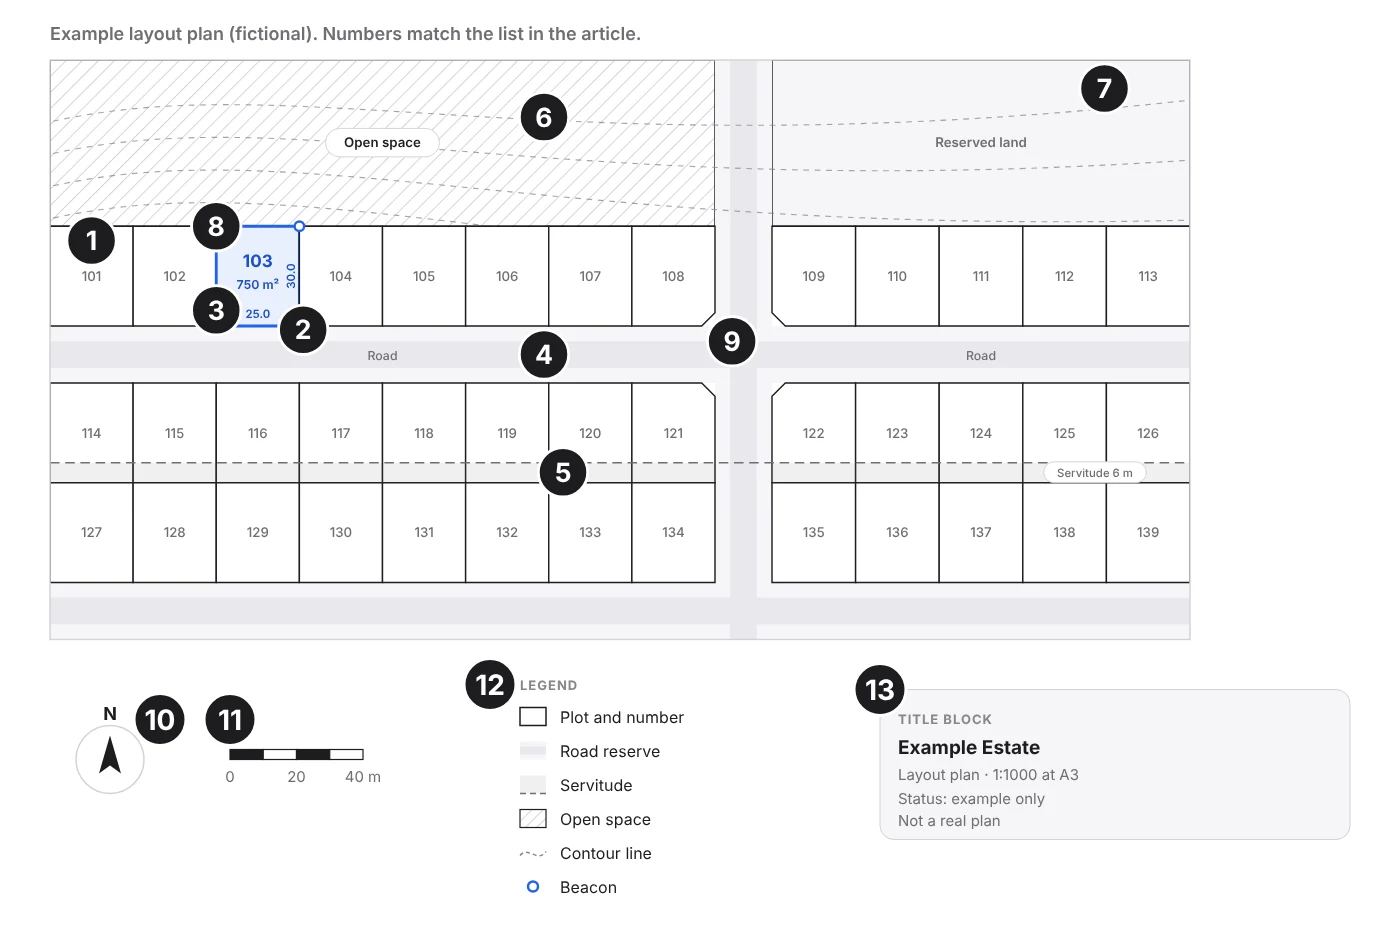
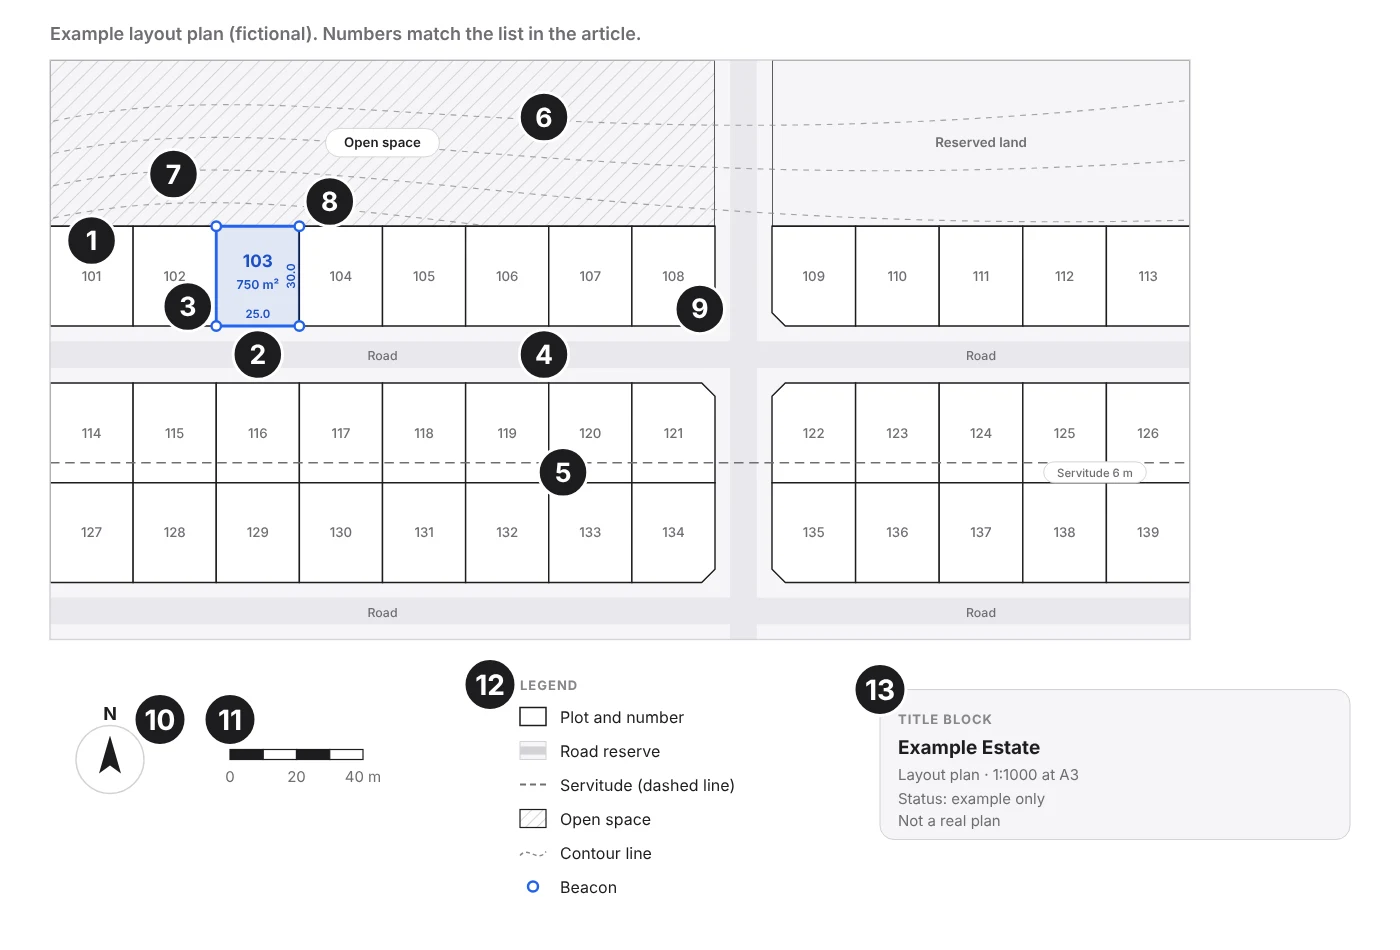
fix(blog): layout plan post review fixes
- Drop "site plan"/"general plan" as synonyms; explain the surveyed plan
  and that plot numbers can change between the two.
- Phone version of the parts diagram (picture element), linked to full size.
- Soften and source road reserve, splay and building-line wording; cite a
  contour line definition.
- Diagram: markers beside visible beacons and on plot 108's splay, splays
  on plots 134/135, bottom road labelled, distinct legend swatches.
- Right of way: in writing and, where possible, registered.

Claude-Session: https://claude.ai/code/session_01WkeDyezYymHaYNFAf7uwrx

diff --git a/src/content/blog/how-to-read-a-layout-plan-before-you-buy-a-plot.md b/src/content/blog/how-to-read-a-layout-plan-before-you-buy-a-plot.md
@@ -12,7 +12,9 @@ To read a layout plan, start with the title block and the north arrow, then find
 
 ## What is a layout plan?
 
-A layout plan (also called a site plan, subdivision plan or general plan) is the drawing that divides a piece of land into plots, roads and other spaces. A land surveyor or town planner usually prepares it, and a local authority usually has to approve it before plots can be sold or registered. The exact steps differ from country to country.
+A layout plan is the drawing that divides a piece of land into plots, roads and other spaces. Similar drawings are called a subdivision plan or plat. A land surveyor or town planner usually prepares it, and a local authority usually has to approve it. The exact steps differ from country to country.
+
+Once the land is surveyed, a surveyor's plan (in some countries called a general plan) records the final plots. Plot numbers and sizes can change between the two, so always ask which plan you are looking at.
 
 It is the closest thing you have to the estate itself before you visit. For buyers who can't visit at all, it may be the only picture of the land they get. That makes it worth ten minutes of careful reading.
 
@@ -21,19 +23,24 @@ It is the closest thing you have to the estate itself before you visit. For buye
 Most layout plans have the same parts, even if the drawing style differs. The numbers below match the example plan.
 
 <figure>
+<a href="/images/blog/how-to-read-a-layout-plan-before-you-buy-a-plot/parts-of-a-layout-plan.webp">
+<picture>
+<source media="(max-width: 600px)" srcset="/images/blog/how-to-read-a-layout-plan-before-you-buy-a-plot/parts-of-a-layout-plan-phone.webp" width="960" height="1420">
 <img src="/images/blog/how-to-read-a-layout-plan-before-you-buy-a-plot/parts-of-a-layout-plan.webp" alt="An example layout plan with numbered markers on the plot number, boundaries, area, road reserve, servitude, open space, contour lines, beacon, corner plot, north arrow, scale bar, legend and title block" width="1400" height="950" loading="lazy" decoding="async">
-<figcaption>The parts of a layout plan, numbered. Example layout plan (fictional); not a real estate.</figcaption>
+</picture>
+</a>
+<figcaption>The parts of a layout plan, numbered. Example layout plan (fictional); not a real estate. Tap to open full size.</figcaption>
 </figure>
 
 1. **Plot numbers.** Every plot has a unique number. It is the number on your agreement of sale, your receipts and, later, your title. Make sure it matches on every document.
 2. **Boundaries and dimensions.** The lines around each plot are its boundaries. The numbers along them are the boundary lengths, usually in metres.
 3. **Area.** The plot's size, usually in square metres (m²) or hectares (1 hectare is 10,000 m²).
-4. **Roads and road reserves.** A road reserve is the full strip of land set aside for a road. It is wider than the road surface: it also holds verges, footpaths, drains and services such as water and power.
+4. **Roads and road reserves.** A road reserve is the land set aside for a road, from boundary to boundary. It is wider than the road surface: it usually also holds the footpaths and verges, and often drains and services such as water and power.
 5. **Servitudes (also called easements).** A right for someone else to use part of a plot, such as a strip for a power line, a pipe or a right of way. You may own that land but not be able to build on it.
 6. **Open spaces and reserved land.** Parks, green belts and land kept for schools, clinics or other public uses. They are not for sale as plots.
 7. **Contour lines.** Lines joining points of the same height. Lines close together mean a steep slope; lines far apart mean gentle ground.
 8. **Beacons (or pegs).** The marks a surveyor places at each plot corner. On the plan they appear as small circles or dots; on the ground they are pins, pegs or concrete markers.
-9. **Corner plots.** Plots at a junction, with road on two sides. Many have a corner cut off (often called a splay) so drivers can see around it.
+9. **Corner plots.** Plots at a junction, with road on two sides. Many have a corner cut off (often called a splay), often to help drivers see round the corner.
 10. **North arrow.** Shows which way is north, so you can work out where the sun rises and sets and which way a plot faces.
 11. **Scale.** A scale bar, a ratio such as 1:1000, or both. At 1:1000, 1 cm on the printed plan is 10 m on the ground.
 12. **Legend.** The key to every line style, shading and symbol on the drawing. Read it first; plans don't all use the same symbols.
@@ -59,7 +66,7 @@ Measure it to the plot boundary, not to the edge of the road surface. The strip 
 
 ## Are corner plots better?
 
-They can be, but check before you pay more for one. A corner plot has two road frontages, so it often feels more open and has two ways in. It can also have less usable space than its size suggests: the corner splay takes a little land, and many places require buildings to stand further back from every road boundary. Ask the developer what the building lines (also called setbacks) are on both road sides.
+They can be, but check before you pay more for one. A corner plot has two road frontages, so it often feels more open and has two ways in. It can also have less usable space than its size suggests: a corner splay takes a little land, and building rules may require the house to stand back from both road boundaries, not just one. Ask the developer what the building lines (also called setbacks) are on both road sides.
 
 ## What else should I look for on the plan?
 
@@ -67,11 +74,11 @@ They can be, but check before you pay more for one. A corner plot has two road f
 - **Water.** Look for streams, drainage lines, wetlands or a flood line near the plot. Ask whether any part of the estate floods.
 - **Servitudes.** Check whether a dashed strip crosses your plot, and what it is for. A servitude for a power line or a sewer can limit where you build.
 - **Neighbours.** Note what is next to the plot: another plot, a main road, open space or land reserved for a school or shops. Each will feel different to live beside.
-- **Access.** Every plot should touch a road reserve. A plot with no road frontage needs a right of way, and that needs to be in writing.
+- **Access.** Every plot should touch a road reserve. A plot with no road frontage needs a right of way, in writing and, where possible, registered.
 
 ## What should I ask the developer?
 
-1. **Is this the approved plan?** Ask for the approval reference and date. A draft can still change.
+1. **Is this the approved plan, and has a surveyed plan replaced it?** Ask for the approval reference and date. A draft can still change, and plot numbers can change once the land is surveyed.
 2. **Has the estate been surveyed, and are the beacons in place?** If you or someone you trust can visit, ask to be shown your plot's beacons.
 3. **Do the plot number, area and boundaries on my agreement match this plan?** They should, exactly.
 4. **What servitudes affect this plot?** Ask for them in writing.
@@ -84,7 +91,7 @@ They can be, but check before you pay more for one. A corner plot has two road f
 - The plan has **no title block**, or no surveyor's or planner's name, date or plan number.
 - The plan is marked **draft**, **proposed** or **not for sale**, but plots are being sold as final.
 - The **area doesn't match** the boundary lengths, or the plot's size differs between the plan, the price list and the agreement.
-- **Plot numbers have changed** since you first saw the plan, with no explanation.
+- **Plot numbers have changed** since you first saw the plan, and nobody can show you the surveyed plan that explains why.
 - The developer **won't share the full plan**, only a crop of your plot.
 - Your plot has **no road frontage** and no written right of way.
 - A servitude, steep slope or water course crosses the plot and **nobody mentioned it**.
@@ -107,7 +114,7 @@ Start with the title block, legend and north arrow. Find your plot number, check
 A layout plan shows how land is divided into plots. A title (or title deed) is the legal record of who owns a particular plot. The plot number links the two.
 
 **What is a road reserve?**
-The full strip of land kept for a road, including verges, footpaths, drains and services. It is wider than the road surface and is not part of any plot.
+The land kept for a road, from boundary to boundary. It usually includes the footpaths and verges as well as the road surface, and it is not part of any plot.
 
 **What is a servitude?**
 A right for someone else to use part of a plot, such as a strip for a power line or a pipe. It can limit where you build.
@@ -118,4 +125,6 @@ A land surveyor can check the plan and the beacons on site. A lawyer can check t
 ## Sources
 
 - International Federation of Surveyors (FIG), [The FIG Statement on the Cadastre](https://fig.net/resources/publications/figpub/pub11/figpub11.asp) (FIG Publication No. 11, 1995): land parcels, boundaries, cadastral surveying and easements.
-- National Wildfire Coordinating Group, [Contour lines and intervals](https://nwcg.gov/book/export/html/32036): what contour lines show and what their spacing means.
+- Gisborne District Council, [Definition of road reserve](https://www.gdc.govt.nz/reo/modal-content/definition-of-road-reserve): the road reserve runs from boundary to boundary and includes the carriageway, footpath and berm.
+- ITC, University of Twente, Living Textbook, [Contour line](https://ltb.itc.utwente.nl/659/concept/174043): a line that connects points of equal elevation.
+- National Wildfire Coordinating Group, [Contour lines and intervals](https://nwcg.gov/book/export/html/32036): close lines mean a steep slope, widely separated lines a gentle one.
